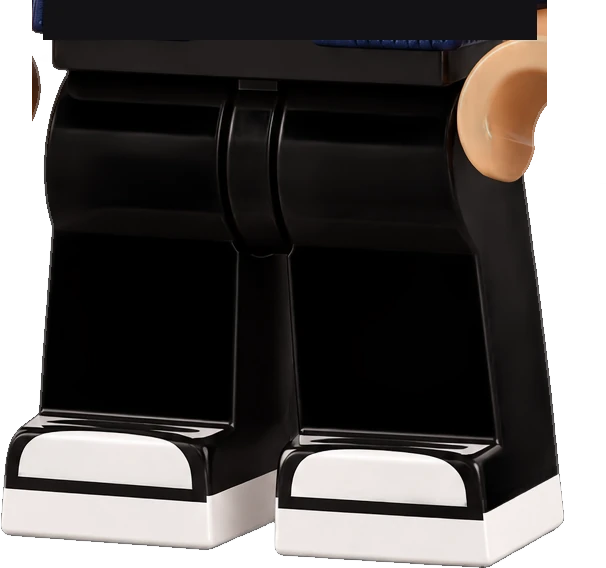
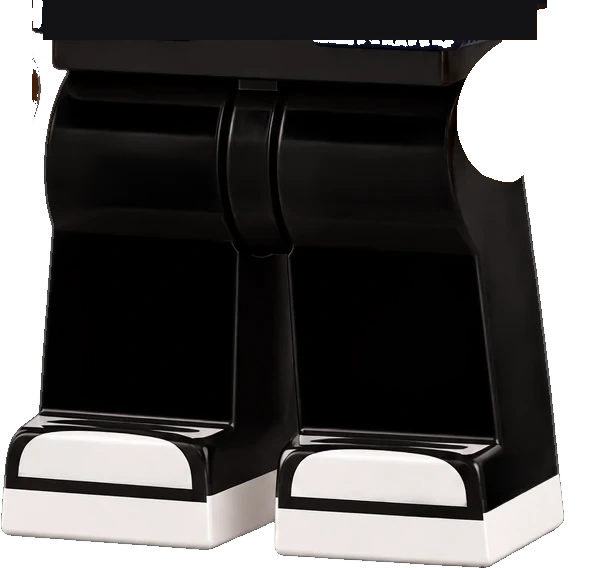
Hide hand fragment on legs layer until torso lands; nudge figure and bubble left

diff --git a/index.html b/index.html
@@ -154,7 +154,7 @@ footer{padding:36px 0 110px;text-align:center;font-family:var(--mono);font-size:
 
 /* ---------- LEGO 프로필 (B안: 섹션마다 손에 든 물건이 바뀌는 나) ---------- */
 .hero-top{display:grid;grid-template-columns:minmax(0,1fr) 215px;gap:28px;align-items:end}
-.lego-slot{position:relative;width:183px;height:320px;justify-self:end}
+.lego-slot{position:relative;width:183px;height:320px;justify-self:end;margin-right:44px}
 .lego{position:absolute;left:0;top:0;width:183px;height:320px;transform-origin:0 0;--hd:0deg;--ds:1;cursor:pointer;user-select:none}
 .lego.docked{position:fixed;z-index:55}
 .lego.flip{transition:transform .72s var(--pop)}
@@ -189,7 +189,8 @@ footer{padding:36px 0 110px;text-align:center;font-family:var(--mono);font-size:
 
 @media(max-width:900px){
 .hero-top{grid-template-columns:1fr}
-.lego-slot{justify-self:start;margin-top:4px}
+.lego-slot{justify-self:start;margin-top:4px;margin-right:0}
+.lg-bubble{left:118px}
 .hero-top{gap:10px}
 .nums{grid-template-columns:1fr 1fr}
 .pcard,.pcard:nth-child(1),.pcard:nth-child(2),.pcard:nth-child(3),.pcard:nth-child(4),.pcard:nth-child(5){padding:26px;border-radius:22px;position:static;transform:none}
